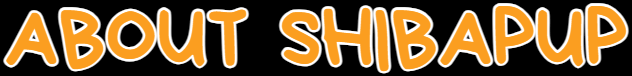
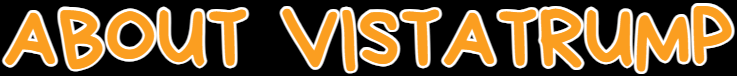
Add files via upload

diff --git a/index.html b/index.html
@@ -5,31 +5,31 @@
     <meta http-equiv="X-UA-Compatible" content="IE=edge">
     <meta name="viewport" content="width=device-width, initial-scale=1.0">
     <link rel="stylesheet" href="/css/style.css">
-    <link rel="icon" href="/images/shiba-c.png" type="image/png">
+    <link rel="icon" href="/images/trump-c.png" type="image/png">
     <link rel="preconnect" href="https://fonts.googleapis.com">
     <link rel="preconnect" href="https://fonts.gstatic.com" crossorigin>
     <link href="https://fonts.googleapis.com/css2?family=Comic+Neue:wght@700&display=swap" rel="stylesheet">
     <link href="https://fonts.googleapis.com/css2?family=Cinzel:wght@500;600&family=Raleway:wght@300&family=Roboto:ital,wght@0,300;0,900;1,900&display=swap" rel="stylesheet">
     <link rel="stylesheet" href="https://cdnjs.cloudflare.com/ajax/libs/aos/2.3.1/aos.css" /> 
-    <title>SHIBAPUP</title>
+    <title>VISTATRUMP</title>
 </head>
 
 <body>
     <header data-aos="fade-down">
         <div class="image">
-            <img src="/images/head-SHIBA.png" width="280rem" height="70rem">
+            <img src="/images/head-TRUMP.png" width="280rem" height="70rem">
         </div>
               
         <div class="nav-list">
             <ul class="navegation">
-                <li class="nav-item"><a href="#woooof" class="nav-link">WOOOOOF...</a></li>
+                <li class="nav-item"><a href="#woooof" class="nav-link">WINNER...</a></li>
                 <li class="nav-item"><a href="#howtobuy" class="nav-link">HOW TO BUY</a></li>
                 <li class="nav-item"><a href="#tokenomics" class="nav-link">TOKENOMICS</a></li>
             </ul>
         </div>
         
         <div class="button-container">
-            <a href="" class="nav-link buy-now">BUY $SHIBAPUP</a>
+            <a href="" class="nav-link buy-now">BUY $VISTATRUMP</a>
         </div>
         
     </header>
@@ -37,32 +37,32 @@
     <div class="marquee">
         <div class="marquee">
             <span>
-                $SHIBAPUP $SHIBAPUP $SHIBAPUP $SHIBAPUP $SHIBAPUP 
-                $SHIBAPUP $SHIBAPUP $SHIBAPUP $SHIBAPUP $SHIBAPUP 
-                $SHIBAPUP $SHIBAPUP $SHIBAPUP $SHIBAPUP $SHIBAPUP 
-                $SHIBAPUP $SHIBAPUP $SHIBAPUP $SHIBAPUP $SHIBAPUP
-                $SHIBAPUP $SHIBAPUP $SHIBAPUP $SHIBAPUP $SHIBAPUP
+                $VISTATRUMP $VISTATRUMP $VISTATRUMP $VISTATRUMP $VISTATRUMP 
+                $VISTATRUMP $VISTATRUMP $VISTATRUMP $VISTATRUMP $VISTATRUMP 
+                $VISTATRUMP $VISTATRUMP $VISTATRUMP $VISTATRUMP $VISTATRUMP 
+                $VISTATRUMP $VISTATRUMP $VISTATRUMP $VISTATRUMP $VISTATRUMP
+                $VISTATRUMP $VISTATRUMP $VISTATRUMP $VISTATRUMP $VISTATRUMP
             </span> 
             <span>
-                $SHIBAPUP $SHIBAPUP $SHIBAPUP $SHIBAPUP $SHIBAPUP 
-                $SHIBAPUP $SHIBAPUP $SHIBAPUP $SHIBAPUP $SHIBAPUP 
-                $SHIBAPUP $SHIBAPUP $SHIBAPUP $SHIBAPUP $SHIBAPUP 
-                $SHIBAPUP $SHIBAPUP $SHIBAPUP $SHIBAPUP $SHIBAPUP
-                $SHIBAPUP $SHIBAPUP $SHIBAPUP $SHIBAPUP $SHIBAPUP
+                $VISTATRUMP $VISTATRUMP $VISTATRUMP $VISTATRUMP $VISTATRUMP 
+                $VISTATRUMP $VISTATRUMP $VISTATRUMP $VISTATRUMP $VISTATRUMP 
+                $VISTATRUMP $VISTATRUMP $VISTATRUMP $VISTATRUMP $VISTATRUMP 
+                $VISTATRUMP $VISTATRUMP $VISTATRUMP $VISTATRUMP $VISTATRUMP
+                $VISTATRUMP $VISTATRUMP $VISTATRUMP $VISTATRUMP $VISTATRUMP
             </span>  
             <span>
-                $SHIBAPUP $SHIBAPUP $SHIBAPUP $SHIBAPUP $SHIBAPUP 
-                $SHIBAPUP $SHIBAPUP $SHIBAPUP $SHIBAPUP $SHIBAPUP 
-                $SHIBAPUP $SHIBAPUP $SHIBAPUP $SHIBAPUP $SHIBAPUP 
-                $SHIBAPUP $SHIBAPUP $SHIBAPUP $SHIBAPUP $SHIBAPUP
-                $SHIBAPUP $SHIBAPUP $SHIBAPUP $SHIBAPUP $SHIBAPUP
+                $VISTATRUMP $VISTATRUMP $VISTATRUMP $VISTATRUMP $VISTATRUMP 
+                $VISTATRUMP $VISTATRUMP $VISTATRUMP $VISTATRUMP $VISTATRUMP 
+                $VISTATRUMP $VISTATRUMP $VISTATRUMP $VISTATRUMP $VISTATRUMP 
+                $VISTATRUMP $VISTATRUMP $VISTATRUMP $VISTATRUMP $VISTATRUMP
+                $VISTATRUMP $VISTATRUMP $VISTATRUMP $VISTATRUMP $VISTATRUMP
             </span> 
             <span>
-                $SHIBAPUP $SHIBAPUP $SHIBAPUP $SHIBAPUP $SHIBAPUP 
-                $SHIBAPUP $SHIBAPUP $SHIBAPUP $SHIBAPUP $SHIBAPUP 
-                $SHIBAPUP $SHIBAPUP $SHIBAPUP $SHIBAPUP $SHIBAPUP 
-                $SHIBAPUP $SHIBAPUP $SHIBAPUP $SHIBAPUP $SHIBAPUP
-                $SHIBAPUP $SHIBAPUP $SHIBAPUP $SHIBAPUP $SHIBAPUP
+                $VISTATRUMP $VISTATRUMP $VISTATRUMP $VISTATRUMP $VISTATRUMP 
+                $VISTATRUMP $VISTATRUMP $VISTATRUMP $VISTATRUMP $VISTATRUMP 
+                $VISTATRUMP $VISTATRUMP $VISTATRUMP $VISTATRUMP $VISTATRUMP 
+                $VISTATRUMP $VISTATRUMP $VISTATRUMP $VISTATRUMP $VISTATRUMP
+                $VISTATRUMP $VISTATRUMP $VISTATRUMP $VISTATRUMP $VISTATRUMP
             </span> 
         </div>
         
@@ -72,12 +72,12 @@
         <div class="backgroud1">
             <h1>Welcome To</h1>
             <img src="/images/shinapup-text.png" class="logo-image">
-            <p class="subtitle">Shibapup The Official "Unofficial" Ethervista Mascot 🐕</p>
+            <p class="subtitle">VISTATRUMP The Official "Unofficial" Ethervista MAGA</p>
             <a href="#" class="nav-link">Buy Now</a>
             <a href="#" class="nav-link">Charts</a>
         </div>
         <div class="backgroud2">
-            <img src="/images/shiba-c.png" alt="Mascot" class="mascot-image">
+            <img src="/images/trump-c.png" alt="Mascot" class="mascot-image">
         </div>
     </div>
 
@@ -87,7 +87,7 @@
             <div class="text-section">
                 <img src="/images/about.png" alt="">
                 <h5>
-                    SHIBAPUP, the rising star in the meme coin universe on the ETH blockchain. SHIBAPUP brings a playful twist with its shibba-themed charm. Embrace the whimsical world of SHIBAPUP, where crypto meets humor, and join the journey toward the next big meme coin sensation on ETH.
+                    VISTATRUMP, the rising star in the meme coin universe on the ETH blockchain. VISTATRUMP brings a playful twist with its Maga-themed charm. Embrace the whimsical world of VISTATRUMP, where crypto meets humor, and join the journey toward the next big meme coin sensation on ETH.
                 </h5>
             </div> 
         </div>   
@@ -107,7 +107,7 @@
     
             <div class="chart-details-container">
                 <div class="chart">
-                    <img src="/images/shibatokenomics.png" alt="Tokenomics Chart" />
+                    <img src="/images/trumptokenomics.png" alt="Tokenomics Chart" />
                 </div>
     
                 <div class="details">
@@ -133,7 +133,7 @@
                         <strong>Symbol</strong>
                     </div>
                     <div class="stat-item">
-                        <span>$SHIBAPUP</span>
+                        <span>$VISTATRUMP</span>
                     </div>
                 </div>
                 <div class="stats">
@@ -195,10 +195,10 @@
                 </div>
             </div>
             <div class="buy-step">
-                <img src="images/shiba.png" alt="Icon">
+                <img src="images/trump.png" alt="Icon">
                 <div>
-                    <h2>Buy $SHIBAPUP token</h2>
-                    <p>Swap your $ETH for $SHIBAPUP</p>
+                    <h2>Buy $VISTATRUMP token</h2>
+                    <p>Swap your $ETH for $VISTATRUMP</p>
                 </div>
             </div>
             
@@ -209,14 +209,7 @@
     
     <footer>
         <div class="footer-content">
-          <div>
-            <h1><strong>LEGAL DISCLAIMER</strong></h1>
-          </div>
-          <div>
-            <p>
-                **$SHIBAPUP** is a CTO (Community-Token-Only) memecoin, created with no intrinsic value and designed solely for entertainment purposes, without any practical utility. This project is developed in collaboration with the community and aims to bring fun to the crypto universe. By purchasing **$SHIBAPUP**, you confirm that you have read and understood this legal disclaimer.
-            </p>
-          </div>
+          
           <div class="social-links">
               <a href="https://t.me/" target="_blank">
                   <img src="images/tg.png" alt="Telegram">
@@ -231,7 +224,7 @@
                 <img src="images/dexscreener.png" alt="DexScreener">
             </a>
         </div>
-        <h4>• 2024 © •SHIBAPUP • All Rights Reserved</h4>
+        <h4>• 2024 © •VISTATRUMP • All Rights Reserved</h4>
         </div>
     </footer>
 
@@ -241,7 +234,7 @@
         function copyToClipboard(img) {
             const address = document.getElementById('contract-address').textContent;
             navigator.clipboard.writeText(address).then(function() {
-                img.src = 'images/check.png';
+                img.src = '/images/check.png';
                 setTimeout(() => {
                     img.src = 'images/copy.png';
                 }, 1000);

diff --git a/css/style.css b/css/style.css
@@ -309,7 +309,7 @@ header {
 
 .chart img {
   max-width: 80%;
-  animation: spin .5s linear infinite;
+  animation: spin 2.5s linear infinite;
 }
 
 @keyframes spin {
@@ -630,7 +630,7 @@ footer .social-links a:hover {
     display: flex;
     justify-content: center;
     align-items: center;
-    padding-left: 12.7rem;
+    padding-left: 14.2rem;
     max-width: 45%;
     height: auto;
     margin-bottom: 5rem;
@@ -644,7 +644,7 @@ footer .social-links a:hover {
     display: flex;
     justify-content: center;
     align-items: center;
-    padding-left: 12.7rem;
+    padding-left: 14.2rem;
     max-width: 45%;
     height: auto;
   }
@@ -798,7 +798,7 @@ footer .social-links a:hover {
   .chart img {
     max-width: 70%;
     height: auto;
-    animation: spin .5s linear infinite;
+    animation: spin 2.5s linear infinite;
   }
 
   @keyframes spin {
